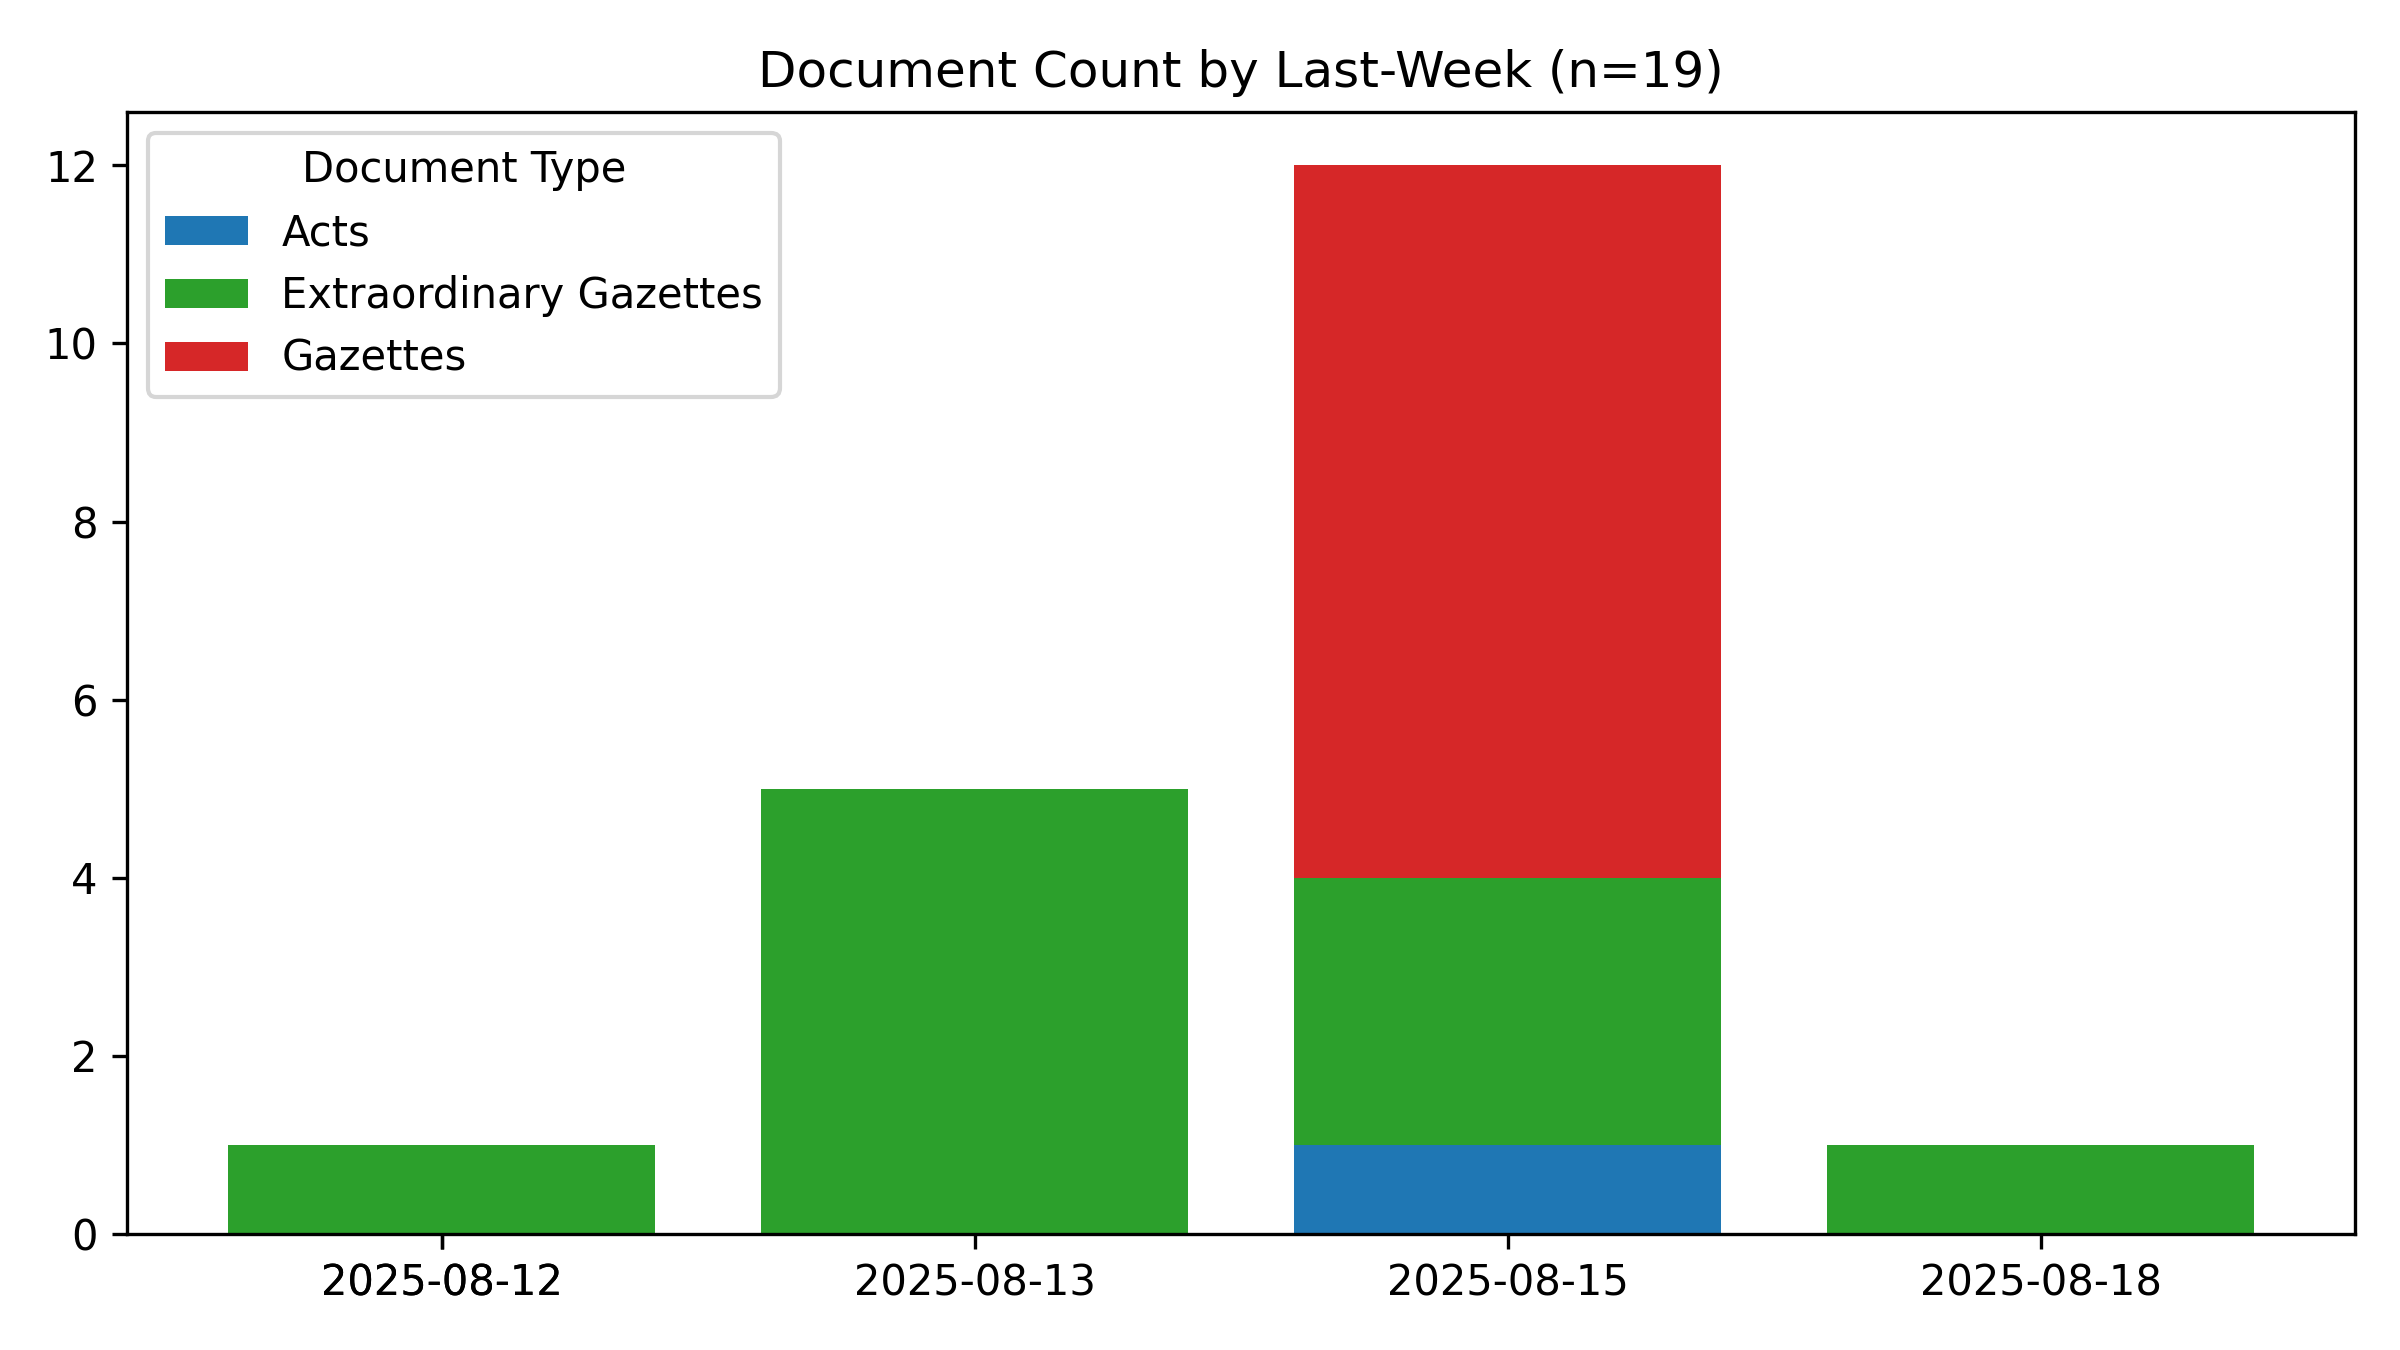
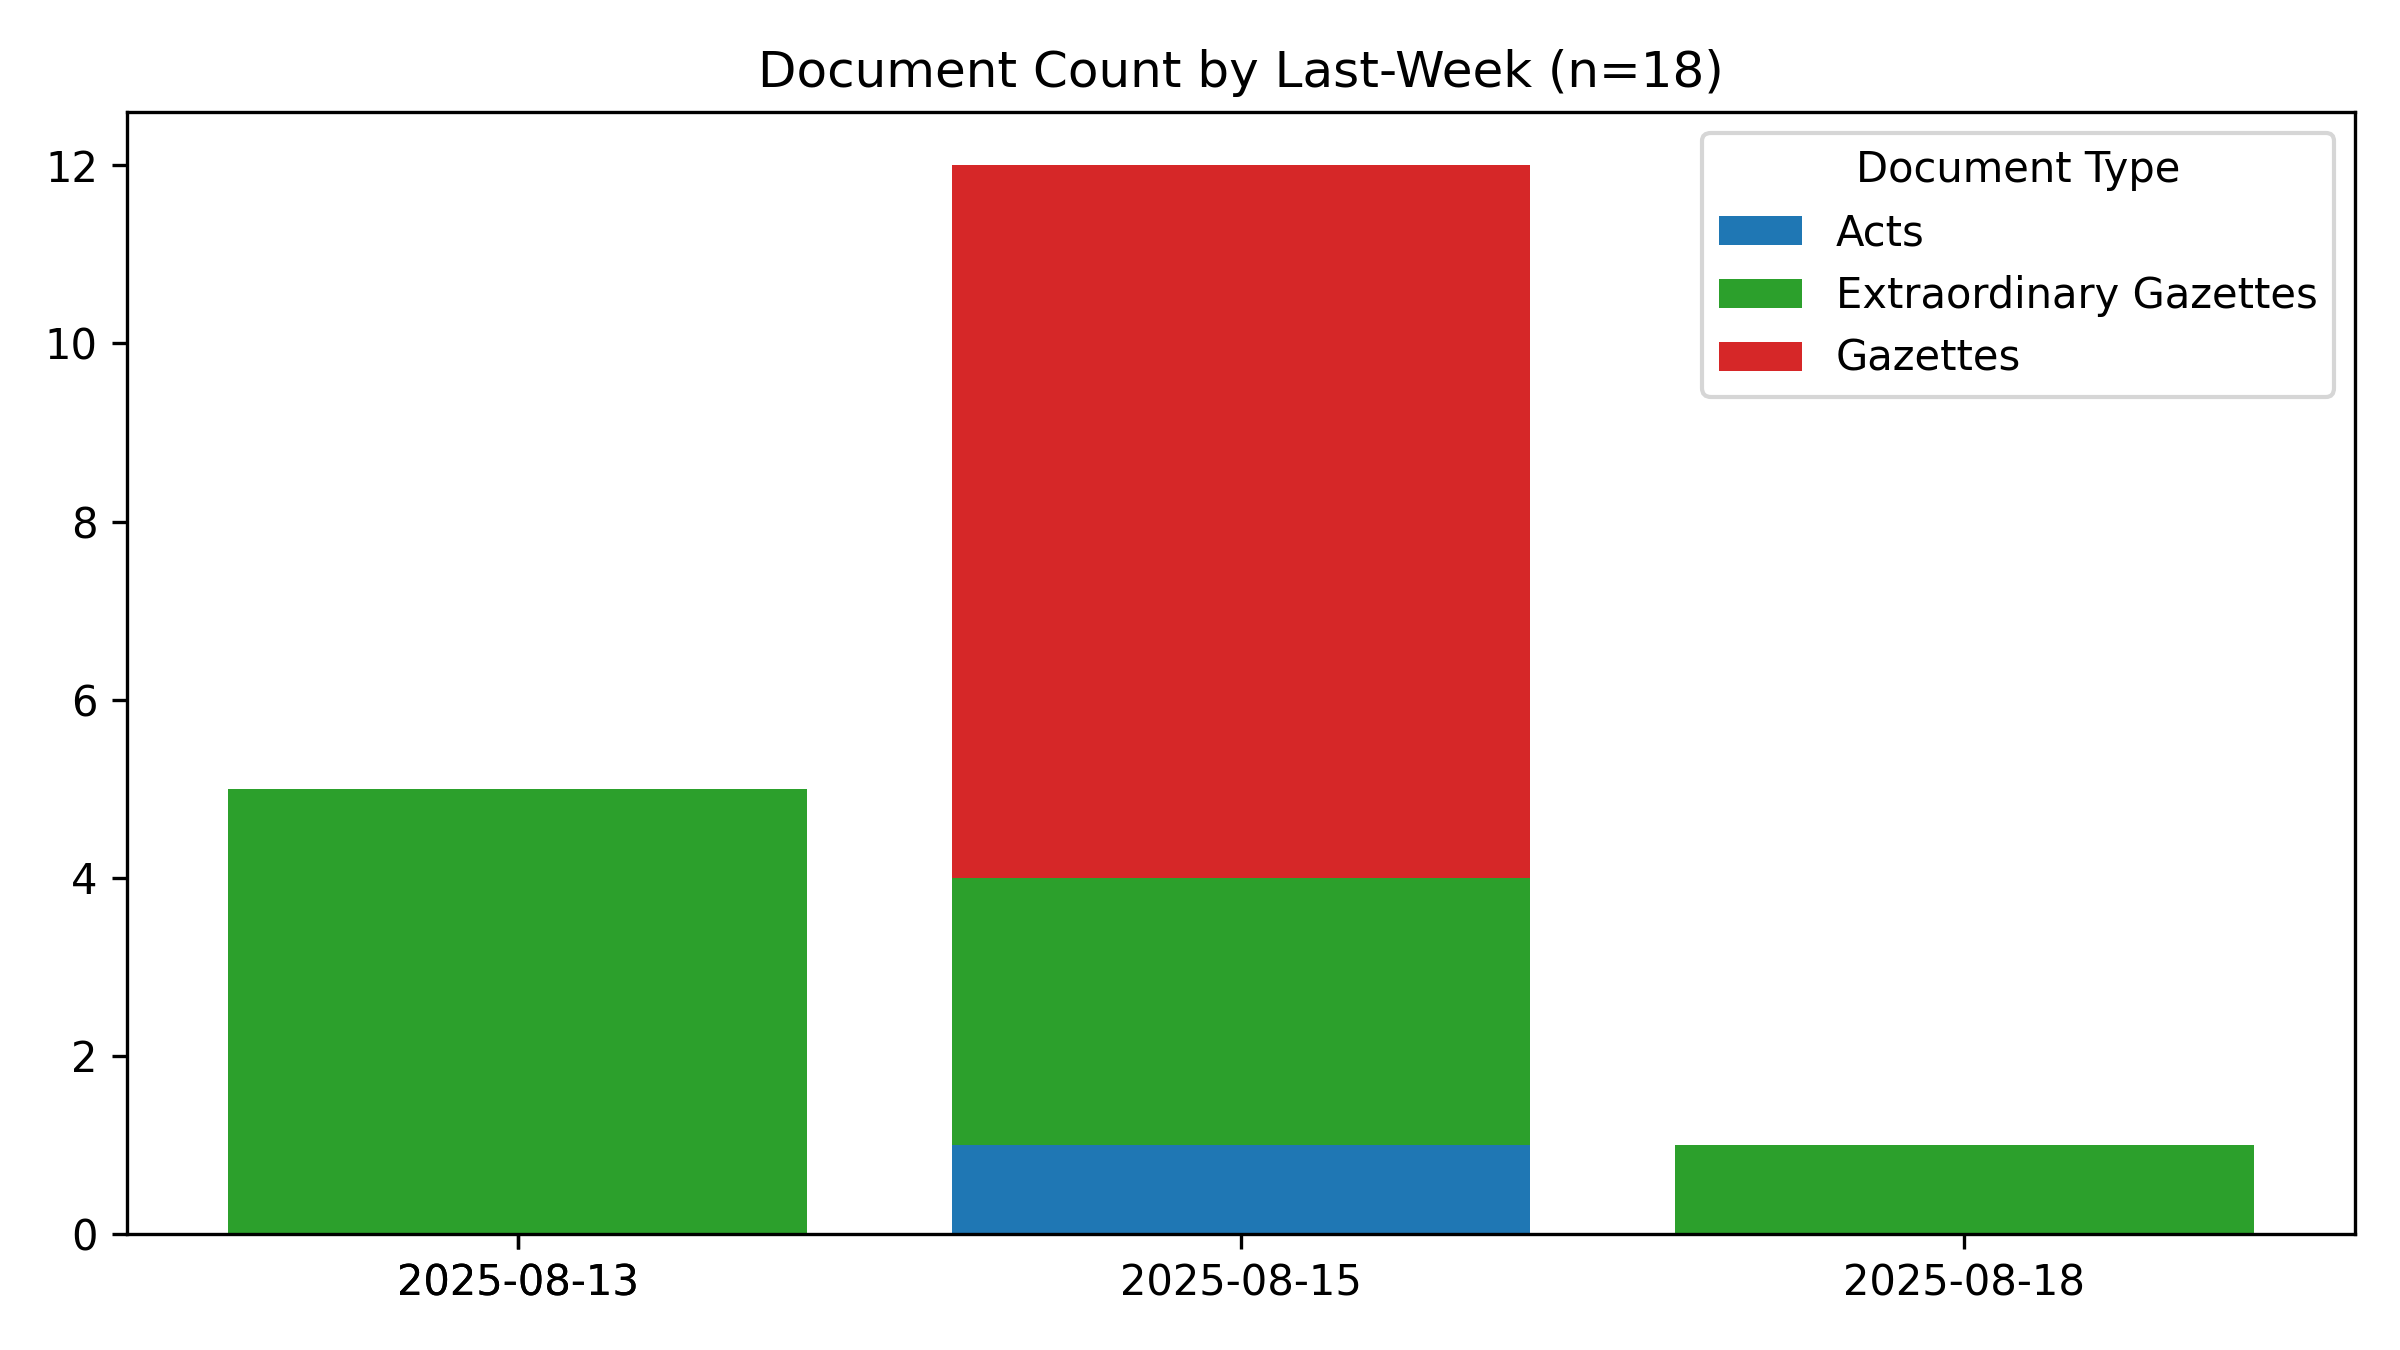
🤖 [build_readme.yml] 2025-08-20-0015

diff --git a/README.md b/README.md
@@ -1,6 +1,6 @@
 # #SriLanka 🇱🇰 - Legal Documents #Dataset
 
-*Last Updated **2025-08-20 05:13:26**.*
+*Last Updated **2025-08-20 05:45:20**.*
 
 **44,347** documents (24.3 MB), from 1981-01-22 to 2025-08-18.
 
@@ -54,7 +54,7 @@ For best results, use a desktop browser.
 
 ## Recent Documents (Published during the last 7 days)
 
-**19** Documents
+**18** Documents
 
 - 🚨 [2025-08-18] [Sri Lanka Customs- Rates of Exchange with effect from 18.08.2025 to 24.05.2025](https://github.com/nuuuwan/lk_legal_docs_data/tree/data_2020s/data/extra-gazettes/2025/2450-01)
 - 🚨 [2025-08-15] [2449/63](https://github.com/nuuuwan/lk_legal_docs_data/tree/data_2020s/data/extra-gazettes/2025/2449-63)
@@ -74,4 +74,3 @@ For best results, use a desktop browser.
 - 🚨 [2025-08-13] [2449/16](https://github.com/nuuuwan/lk_legal_docs_data/tree/data_2020s/data/extra-gazettes/2025/2449-16)
 - 🚨 [2025-08-13] [2449/15](https://github.com/nuuuwan/lk_legal_docs_data/tree/data_2020s/data/extra-gazettes/2025/2449-15)
 - 🚨 [2025-08-13] [Dept. of Local Government- Southern Province - Notice Under Section 66 C (1) Elected Chairman and Vice Chairman Weligama Pradeshiya Sabha](https://github.com/nuuuwan/lk_legal_docs_data/tree/data_2020s/data/extra-gazettes/2025/2449-14)
-- 🚨 [2025-08-12] [2449/12](https://github.com/nuuuwan/lk_legal_docs_data/tree/data_2020s/data/extra-gazettes/2025/2449-12)
